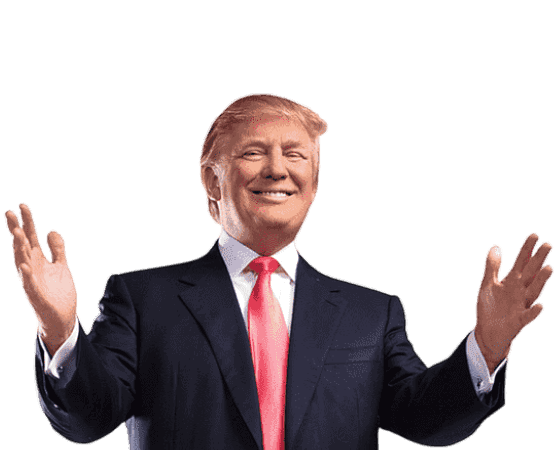
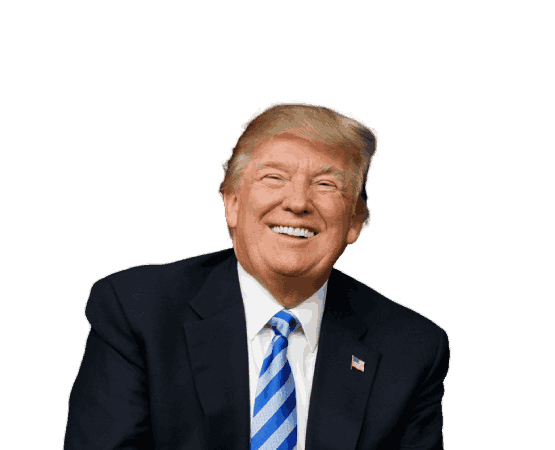
AG-17

diff --git a/helpers/common/getPersonImage.js b/helpers/common/getPersonImage.js
@@ -2,7 +2,6 @@ import { Person } from "../../models/Person";
 import { getRandomNumber } from "../../utils/common/getRandomNumber";
 
 export function getPersonImage(meterValue, person = new Person()) {
-  //let randNormalImgIndex = getRandomNumber(2);
   let image =
     meterValue == person.moodBreakpoints.DEFAULT
       ? person.images.Normal[0]
@@ -25,25 +24,46 @@ export function getImageBasedOnHandshake(
   showAchievment = false,
   oldImage = null
 ) {
-  let randNormalImgIndex = getRandomNumber(2);
-  if (meterValue == person.moodBreakpoints.DEFAULT) {
-    image = person.images.Normal[randNormalImgIndex];
-  } else if (isFirstEncounterEver === true || showAchievment === true) {
+  let image = null;
+
+  if (isFirstEncounterEver === true || showAchievment === true) {
     image = person.images.Happy;
-  } else if (hasHandshakeMatched && meterValue <= person.moodBreakpoints.ANGRY) {
-    image = person.images.Normal[randNormalImgIndex];
-  } else if (hasHandshakeMatched && meterValue <= person.moodBreakpoints.HAPPY) {
+  } else if (hasHandshakeMatched && oldImage === person.images.Angry) {
+    image = generateRandomNormalImg(image, person);
+  } else if (hasHandshakeMatched && person.images.Normal.includes(oldImage)) {
     image = person.images.Happy;
-  } else if (!hasHandshakeMatched && meterValue <= person.moodBreakpoints.ANGRY) {
+  } else if (hasHandshakeMatched && oldImage === person.images.Happy) {
+    image = person.images.Happy;
+  } else if (!hasHandshakeMatched && oldImage === person.images.Angry) {
     image = person.images.Angry;
-  } else if (!hasHandshakeMatched && meterValue <= person.moodBreakpoints.HAPPY) {
-    image = person.images.Normal[randNormalImgIndex];
+  } else if (!hasHandshakeMatched && person.images.Normal.includes(oldImage)) {
+    image = person.images.Angry;
+  } else if (!hasHandshakeMatched && oldImage === person.images.Happy) {
+    image = generateRandomNormalImg(image, person);
   } else {
-    image = person.images.Normal[randNormalImgIndex];
+    image = generateRandomNormalImg(image, person);
   }
-  while (oldImage === image) {
-    randNormalImgIndex = getRandomNumber(2);
-    image = person.images.Normal[randNormalImgIndex];
+
+  return { newPersonImage: image };
+}
+
+export function getInitialImage(meterValue, person = new Person()) {
+  let image = null;
+  if (meterValue == person.moodBreakpoints.DEFAULT) {
+    image = generateRandomNormalImg(image, person);
+  } else if (meterValue <= person.moodBreakpoints.ANGRY) {
+    image = person.images.Angry;
+  } else if (meterValue <= person.moodBreakpoints.NORMAL) {
+    image = generateRandomNormalImg(image, person);
+  } else if (meterValue <= person.moodBreakpoints.HAPPY) {
+    image = person.images.Happy;
+  } else {
+    image = generateRandomNormalImg(image, person);
   }
   return image;
+}
+
+function generateRandomNormalImg(image, person = new Person()) {
+  let randNormalImgIndex = getRandomNumber(2);
+  return person.images.Normal[randNormalImgIndex];
 }

diff --git a/components/GameScreen/PersonImageWalkthroughComponent.jsx b/components/GameScreen/PersonImageWalkthroughComponent.jsx
@@ -5,7 +5,7 @@ import { globalState } from "../../global/GameScreen";
 import { PersonMeter } from "../../models/PersonMeter";
 import { useDispatch, useSelector } from "react-redux";
 import { meterReset, selectMeterByPersonId } from "../../features/PersonMeterSlice";
-import { getImageBasedOnHandshake } from "../../helpers/common/getPersonImage";
+import { getImageBasedOnHandshake, getInitialImage } from "../../helpers/common/getPersonImage";
 
 const WalkthroughView = walkthroughable(View);
 
@@ -22,21 +22,25 @@ const PersonImageWalkthroughComponent = () => {
 };
 
 const PersonImageComponent = () => {
-  const [img, setImg] = useState(null);
   let meter = new PersonMeter();
   meter = useSelector((state) => selectMeterByPersonId(state, globalState.person.id));
-  let personImage = useMemo(() => {
-    let newPersonImage = getImageBasedOnHandshake(
-      meter.meterValue,
-      globalState.person,
-      globalState.selectedPersonHandshake.id === globalState.selectedPlayerHandshake.id,
-      globalState.isFirstEncounterEver,
-      globalState.achievementResult.showAchievement,
-      img
-    );
-    setImg(newPersonImage);
-    return newPersonImage;
-  }, [globalState.timesPlayed, globalState.hasShakeEnded]);
+  const [img, setImg] = useState(getInitialImage(meter.meterValue, globalState.person));
+  useEffect(() => {
+    if (globalState.hasShakeEnded == false) {
+      return;
+    }
+    if (globalState.hasShakeEnded == true || img == null || globalState.isFirstEncounterEver || globalState.achievementResult.showAchievement) {
+      let { newPersonImage } = getImageBasedOnHandshake(
+        meter.meterValue,
+        globalState.person,
+        globalState.selectedPersonHandshake.id === globalState.selectedPlayerHandshake.id,
+        globalState.isFirstEncounterEver,
+        globalState.achievementResult.showAchievement,
+        img
+      );
+      setImg(newPersonImage);
+    }
+  }, [globalState.hasShakeEnded]);
   return (
     <View className="relative w-64 h-64 bg-black-600 rounded-full flex items-center justify-center overflow-hidden">
       <PersonBarComponent meter={meter} />
@@ -44,7 +48,7 @@ const PersonImageComponent = () => {
         <Image
           className="w-full h-full"
           style={{ opacity: globalState.modalVisible ? 0.2 : 1 }}
-          source={personImage}
+          source={img}
           onLoad={() => globalState.showWalkthrough === true && globalState.startWalkthrough()}
         />
       </View>

diff --git a/helpers/GameScreen.js b/helpers/GameScreen.js
@@ -142,10 +142,10 @@ export function handleShakeEnded() {
 }
 export function mShakeAgain() {
   globalState.setSelectedPersonHandshake(handshakes[getRandomNumber(handshakes.length)]);
-  globalState.setHasPlayStarted(true);
-  globalState.setTimer(TimerStartValue);
-  globalState.setHasShakeEnded(false);
-  globalState.setHasShakeStarted(false);
+  globalState.setHasPlayStarted((prev) => true);
+  globalState.setTimer((prev) => TimerStartValue);
+  globalState.setHasShakeEnded((prev) => false);
+  globalState.setHasShakeStarted((prev) => false);
 }
 export function leaveScreen(e, screenName = ScreenNames.PersonsScreen) {
   //console.log("🚀 ~ file: GameScreen.js:151 ~ leaveScreen ~ screenName:", screenName);
